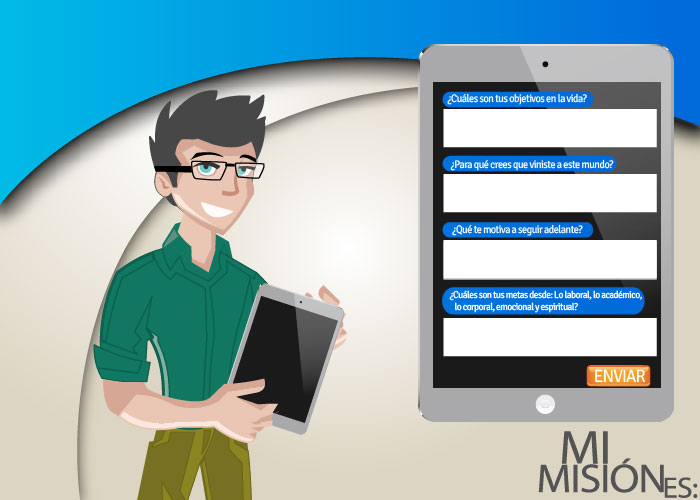
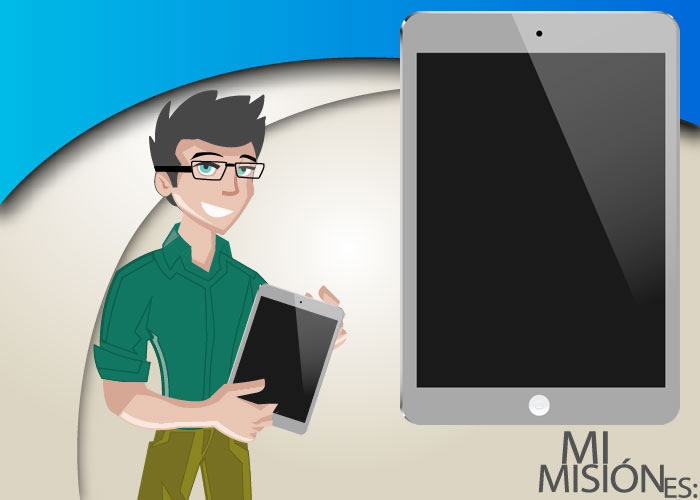
con cambios hechos por victor en los estilos css

Changed region(s): [[0.57, 0.0, 0.99, 0.87]]

diff --git a/themes/multimedia/css/template.css b/themes/multimedia/css/template.css
@@ -67,3 +67,48 @@ root {
         position: absolute;
         text-align: center;
     }
+    div#sec-formulario3,  div#sec-formulario1,  div#sec-formulario2 {
+        padding: 0px 10px;
+left: 416px;
+top: 55px;
+        position: absolute;
+        width: 225px;
+height: 332px;
+overflow-y: auto;
+overflow-x: hidden;
+color: white;
+}
+#content1, #content2, #content3, #content4, #content5, #content6, #content7, #content8, #content9, #content10, #content11, #content12, #content13, #content14, #content15{
+position: relative;
+height: 500px;
+        width:921px; 
+        margin:0 auto;
+}
+label.control-label {
+font-size: 12px;
+background: #006CDF;
+border-radius: 10px;
+display: inline-block;
+padding: 0px;
+color: white;
+}
+input.btn {
+position: absolute;
+margin-bottom: 0px;
+background: #F57E22;
+font-weight: bold;
+color: white;
+border-radius: 10px;
+cursor: pointer;
+
+}
+p {
+font-size: 13px;
+margin: 3px;
+}
+li {
+font-size: 12px;
+}
+ul {
+margin: 0px;
+}

diff --git a/protected/views/cuestionario/content9.php b/protected/views/cuestionario/content9.php
@@ -1,12 +1,5 @@
 <div id="content9">
-    <div class="flechas">
-        <a onclick="" id="anterior" class="load" href="content8">
-            <img src="themes/multimedia/imagenes/multimedia/navegacion/ico_Anterior.png"><span>Anterior</span></a>
-        <a onclick="" class="load" href="content10" id="siguiente">
-            <img src="themes/multimedia/imagenes/multimedia/navegacion/ico_Siguiente.png"><span>Siguiente</span></a>
-    </div>
-</div>
-<div id="sec-formulario2">
+    <div id="sec-formulario2">
     <?php
     if (isset(Yii::app()->session['formulario2']))
         $model = Yii::app()->session['formulario2'];
@@ -15,12 +8,18 @@
     echo $this->renderPartial('_formulario2', array('model'=>$model), true);
     ?>
 </div>
+    <div class="flechas">
+        <a onclick="" id="anterior" class="load" href="content8">
+            <img src="themes/multimedia/imagenes/multimedia/navegacion/ico_Anterior.png"><span>Anterior</span></a>
+        <a onclick="" class="load" href="content10" id="siguiente">
+            <img src="themes/multimedia/imagenes/multimedia/navegacion/ico_Siguiente.png"><span>Siguiente</span></a>
+    </div>
+</div>
+
 
 <style type="text/css">
     #content9 {
         background: url('themes/multimedia/imagenes/multimedia/9_MUILTIMEDIA GRANDE-01.jpg') no-repeat;
-        padding-bottom: 44em;
-        width:921px; 
-        margin:0 auto;
+
     }
 </style>

diff --git a/protected/views/cuestionario/content5.php b/protected/views/cuestionario/content5.php
@@ -1,12 +1,5 @@
 <div id="content5">
-    <div class="flechas">
-        <a onclick="" id="anterior" class="load" href="content4">
-            <img src="themes/multimedia/imagenes/multimedia/navegacion/ico_Anterior.png"><span>Anterior</span></a>
-        <a onclick="" class="load" href="content6" id="siguiente">
-            <img src="themes/multimedia/imagenes/multimedia/navegacion/ico_Siguiente.png"><span>Siguiente</span></a>
-    </div>
-</div>
-<div id="sec-formulario1">
+    <div id="sec-formulario1">
     <?php 
     if(isset(Yii::app()->session['formulario1']))
         $model = Yii::app()->session['formulario1'];
@@ -16,13 +9,19 @@
         echo $this->renderPartial('_formulario1',array('model'=> $model));
     ?>
 </div>
+    <div class="flechas">
+        <a onclick="" id="anterior" class="load" href="content4">
+            <img src="themes/multimedia/imagenes/multimedia/navegacion/ico_Anterior.png"><span>Anterior</span></a>
+        <a onclick="" class="load" href="content6" id="siguiente">
+            <img src="themes/multimedia/imagenes/multimedia/navegacion/ico_Siguiente.png"><span>Siguiente</span></a> 
+    </div>
+</div>
+
 
 <style type="text/css">
     #content5 {
         background: url('themes/multimedia/imagenes/multimedia/5_MUILTIMEDIA GRANDE-01.jpg') no-repeat;
-        padding-bottom: 44em;
-        width:921px; 
-        margin:0 auto;
+
     }
     
     

diff --git a/protected/views/cuestionario/content11.php b/protected/views/cuestionario/content11.php
@@ -1,12 +1,5 @@
 <div id="content11">
-    <div class="flechas">
-        <a onclick="" id="anterior" class="load" href="content10">
-            <img src="themes/multimedia/imagenes/multimedia/navegacion/ico_Anterior.png"><span>Anterior</span></a>
-        <a onclick="" class="" href="" id="finalizar">
-            <img src="themes/multimedia/imagenes/multimedia/navegacion/ico_Siguiente.png"><span>Finalizar</span></a>
-    </div>
-</div>
-<div id="sec-formulario3">
+    <div id="sec-formulario3">
     <?php
     if (isset(Yii::app()->session['formulario3']))
         $model = Yii::app()->session['formulario3'];
@@ -15,11 +8,17 @@
     echo $this->renderPartial('_formulario3', array('model'=>$model), true);
     ?>
 </div>
+    <div class="flechas">
+        <a onclick="" id="anterior" class="load" href="content10">
+            <img src="themes/multimedia/imagenes/multimedia/navegacion/ico_Anterior.png"><span>Anterior</span></a>
+        <a onclick="" class="" href="" id="finalizar">
+            <img src="themes/multimedia/imagenes/multimedia/navegacion/ico_Siguiente.png"><span>Finalizar</span></a>
+    </div>
+</div>
+
 <style type="text/css">
     #content11 {
         background: url('themes/multimedia/imagenes/multimedia/11_MUILTIMEDIA GRANDE-01.jpg') no-repeat;
-        padding-bottom: 44em;
-        width:921px; 
-        margin:0 auto;
+
     }
 </style>

diff --git a/themes/multimedia/views/layouts/main.php b/themes/multimedia/views/layouts/main.php
@@ -5,7 +5,9 @@
         <?php 
             Yii::app()->clientScript->registerCoreScript('jquery');
             Yii::app()->clientScript->registerCoreScript('jquery.ui');
+
         ?>
+        <link rel="stylesheet" type="text/css" href="<?php echo Yii::app()->theme->getBaseUrl(); ?>/css/template.css" media="screen, projection" />
     </head>
     <body>
         <header></header>

diff --git a/protected/views/cuestionario/inicio.php b/protected/views/cuestionario/inicio.php
@@ -35,12 +35,11 @@
 <style type="text/css">
 
     .flechas {
-        margin-top: 27%;
-        margin-right: 45%;
-        position: absolute;
-        right: 0;
-        width: 125px;
-        z-index: 999;
+position: absolute;
+left: 44%;
+bottom: 0px;
+width: 125px;
+z-index: 999;
 
     }
     .flechas img {

diff --git a/protected/views/cuestionario/content2.php b/protected/views/cuestionario/content2.php
@@ -10,8 +10,6 @@
 <style type="text/css">
     #content2  {
         background: url('themes/multimedia/imagenes/multimedia/2_MUILTIMEDIA GRANDE-01.jpg') no-repeat;
-        padding-bottom: 44em;
-        width:921px; 
-        margin:0 auto;
+
     }
 </style>

diff --git a/protected/views/cuestionario/content3.php b/protected/views/cuestionario/content3.php
@@ -10,8 +10,6 @@
 <style type="text/css">
     #content3  {
         background: url('themes/multimedia/imagenes/multimedia/3_MUILTIMEDIA GRANDE-01.jpg') no-repeat;
-        padding-bottom: 44em;
-        width:921px; 
-        margin:0 auto;
+
     }
 </style>

diff --git a/protected/views/cuestionario/content10.php b/protected/views/cuestionario/content10.php
@@ -9,8 +9,6 @@
 <style type="text/css">
     #content10 {
         background: url('themes/multimedia/imagenes/multimedia/10_MUILTIMEDIA GRANDE-01.jpg') no-repeat;
-        padding-bottom: 44em;
-        width:921px; 
-        margin:0 auto;
+
     }
 </style>

diff --git a/protected/views/cuestionario/content4.php b/protected/views/cuestionario/content4.php
@@ -9,8 +9,6 @@
 <style type="text/css">
     #content4  {
         background: url('themes/multimedia/imagenes/multimedia/4_MUILTIMEDIA GRANDE-01.jpg') no-repeat;
-        padding-bottom: 44em;
-        width:921px; 
-        margin:0 auto;
+
     }
 </style>

diff --git a/protected/views/cuestionario/content6.php b/protected/views/cuestionario/content6.php
@@ -9,8 +9,6 @@
 <style type="text/css">
     #content6 {
         background: url('themes/multimedia/imagenes/multimedia/6_MUILTIMEDIA GRANDE-01.jpg') no-repeat;
-        padding-bottom: 44em;
-        width:921px; 
-        margin:0 auto;
+
     }
 </style>

diff --git a/protected/views/cuestionario/content7.php b/protected/views/cuestionario/content7.php
@@ -9,8 +9,6 @@
 <style type="text/css">
     #content7 {
         background: url('themes/multimedia/imagenes/multimedia/7_MUILTIMEDIA GRANDE-01.jpg') no-repeat;
-        padding-bottom: 44em;
-        width:921px; 
-        margin:0 auto;
+
     }
 </style>
